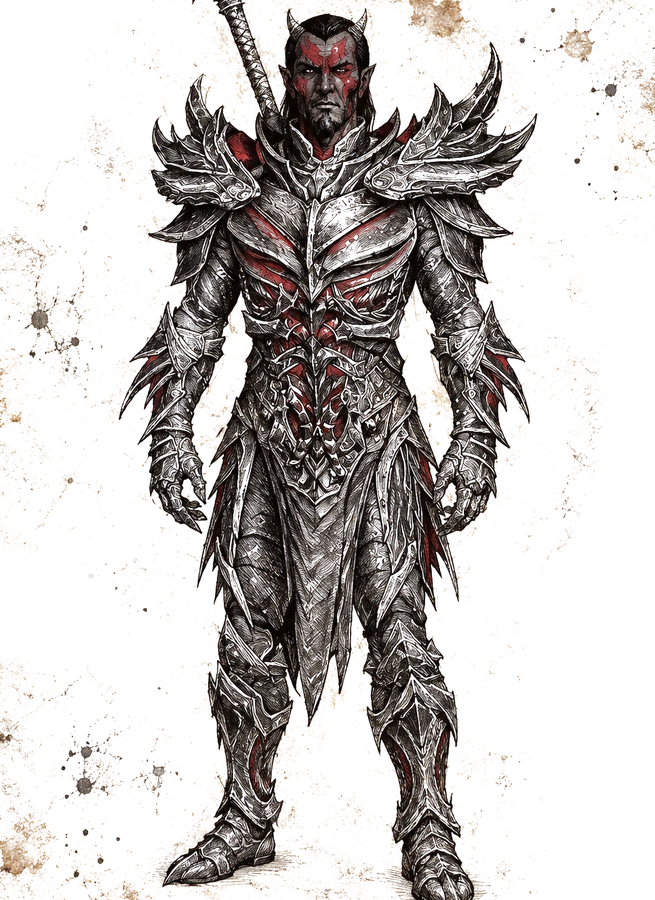
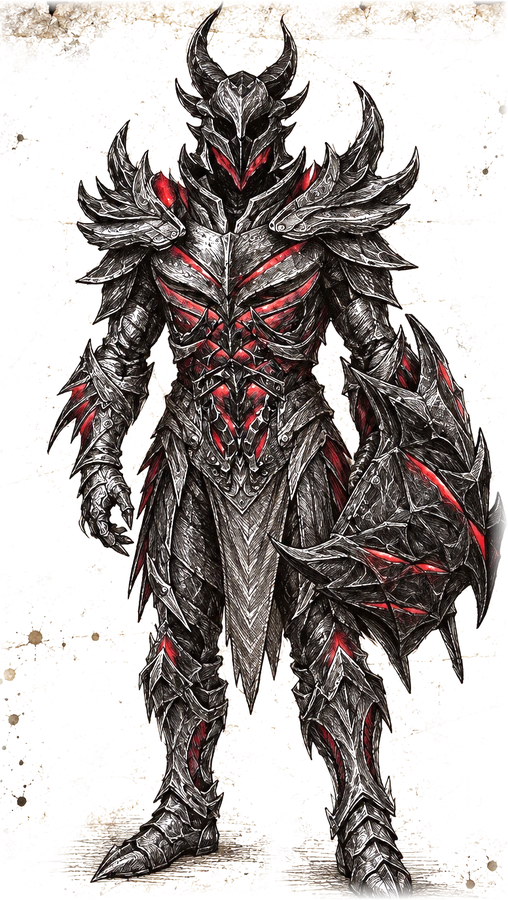
Novo nome, novo retrato do guerreiro e proteção com línguas de dragão
- O livro passa a se chamar "Bestiário de Eivor, Mago da Corte de Windhelm"
  (capa, folha de rosto, cabeçalhos, runas do medalhão e título da página).
- Retrato do Dremora Guerreiro trocado pela versão com elmo; retrato do
  mago recortado de novo, agora com os chifres inteiros.
- Proteção dos Dremoras inclui línguas de dragão contra o fogo.
- Couro da capa com manchas mais suaves.

diff --git a/livro.js b/livro.js
@@ -1,5 +1,5 @@
 /*
-  Bestiário de Windhelm: o livro que se folheia.
+  Bestiário de Eivor, Mago da Corte de Windhelm: o livro que se folheia.
 
   As páginas saem de criaturas.js. Este arquivo monta o livro, desenha o
   pergaminho e o couro, vira as folhas em 3D e cuida da navegação.
@@ -7,7 +7,7 @@
 (() => {
   'use strict';
 
-  const DADOS = window.BESTIARIO || { titulo: 'Bestiário de Windhelm', livro: '', criaturas: [] };
+  const DADOS = window.BESTIARIO || { titulo: 'Bestiário de Eivor', subtitulo: 'Mago da Corte de Windhelm', livro: '', criaturas: [] };
   DADOS.autor = DADOS.autor || 'Eivor';
   DADOS.cargo = DADOS.cargo || 'Mago da Corte';
 
@@ -117,13 +117,13 @@
       <div class="topo">
         <p class="t-grande">${esc(a)}</p>
         <p class="t-medio">${esc(b.join(' '))}</p>
+        ${DADOS.subtitulo ? `<p class="subtitulo">${esc(DADOS.subtitulo)}</p>` : ''}
         ${floreio()}
       </div>
       <svg class="pata-tinta" viewBox="0 0 100 92" aria-hidden="true">${pata()}</svg>
       <div class="topo">
         <p class="livro-n">${esc(DADOS.livro || '')}</p>
-        <p class="autor">Escrito por ${esc(DADOS.autor)}, ${esc(DADOS.cargo)},</p>
-        <p class="autoria">com a ajuda de todos os moradores de Windhelm</p>
+        <p class="autoria">Escrito com a ajuda de todos os moradores de Windhelm</p>
       </div>
     </div>`;
   }
@@ -315,7 +315,7 @@
       const cx = (26 + W) / 2, cy = 452, R = 112;
       const ra = R - 25;
       const anel = `M${cx - ra},${cy} a${ra},${ra} 0 1,1 ${2 * ra},0 a${ra},${ra} 0 1,1 ${-2 * ra},0`;
-      const runas = 'ᛒᛖᛊᛏᛁᚨᚱᛁᛟ ᛫ ᛞᛖ ᛫ ᚹᛁᚾᛞᚺᛖᛚᛗ ᛫ ᛒᛖᛊᛏᛁᚨᚱᛁᛟ ᛫ ᛞᛖ ᛫ ᚹᛁᚾᛞᚺᛖᛚᛗ ᛫';
+      const runas = 'ᛒᛖᛊᛏᛁᚨᚱᛁᛟ ᛫ ᛞᛖ ᛫ ᛖᛁᚹᛟᚱ ᛫ ᛗᚨᚷᛟ ᛫ ᛞᚨ ᛫ ᚲᛟᚱᛏᛖ ᛫';
       return `<svg class="arte" viewBox="0 0 ${W} ${H}" aria-hidden="true">
         ${moldura}
         <path id="anel-capa" d="${anel}" fill="none"/>
@@ -363,6 +363,7 @@
       <div class="conteudo" data-seed="77">
         <p class="t-grande">${esc(a)}</p>
         <p class="t-medio">${esc(b.join(' '))}</p>
+        ${DADOS.subtitulo ? `<p class="subtitulo">${esc(DADOS.subtitulo)}</p>` : ''}
         <p class="livro-n">${esc(DADOS.livro || '')}</p>
       </div>
     </div>`;
@@ -408,7 +409,7 @@
 
   // etiqueta da capa com bordas rasgadas
   (function recortarEtiqueta() {
-    const R = rng(4242), w = 348, h = 158, st = 5, pts = [];
+    const R = rng(4242), w = 348, h = 188, st = 5, pts = [];
     for (let x = 0; x <= w; x += st) pts.push([x, R() * 3.2]);
     for (let y = 0; y <= h; y += st) pts.push([w - R() * 3.2, y]);
     for (let x = w; x >= 0; x -= st) pts.push([x, h - R() * 3.2]);
@@ -601,11 +602,11 @@
     for (let y = 0; y < H; y++) {
       for (let x = 0; x < W; x++) {
         const i = y * W + x;
-        const v = n1[i] * 0.6 + n2[i] * 0.25 + n3[i] * 0.15;
-        let t = clamp((v - 0.3) / 0.45, 0, 1); t = t * t * (3 - 2 * t);
-        let r = 26 + 36 * t, gg = 13 + 21 * t, b = 9 + 13 * t;
+        const v = n1[i] * 0.55 + n2[i] * 0.25 + n3[i] * 0.2;
+        let t = clamp((v - 0.32) / 0.4, 0, 1); t = t * t * (3 - 2 * t);
+        let r = 30 + 30 * t, gg = 16 + 17 * t, b = 11 + 11 * t;
         // manchas escuras de gordura, leves
-        const m = clamp((0.38 - n2[i]) / 0.25, 0, 1) * 0.14;
+        const m = clamp((0.38 - n2[i]) / 0.25, 0, 1) * 0.08;
         r *= 1 - m; gg *= 1 - m; b *= 1 - m;
         const e = Math.min(x, W - x, y, H - y) / T;
         let q = clamp(1 - e / (9 + 26 * n1[i]), 0, 1); q = q * q * 0.9;

diff --git a/estilo.css b/estilo.css
@@ -1,4 +1,4 @@
-/* Bestiário de Windhelm: estilo do livro */
+/* Bestiário de Eivor, Mago da Corte de Windhelm: estilo do livro */
 
 :root {
   color-scheme: dark;
@@ -221,8 +221,8 @@ dd { display: inline; margin: 0; }
 .rosto .topo { display: flex; flex-direction: column; align-items: center; }
 .pata-tinta { width: 6.4em; height: auto; fill: rgb(var(--tinta) / .8); }
 .rosto .livro-n { font-size: 1.25em; }
-.rosto .autor { font-size: 1em; margin-top: .5em !important; }
 .rosto .autoria { font-size: .9em; max-width: 17em; opacity: .9; }
+.rosto .subtitulo { font-size: 1.05em; margin-top: .3em !important; }
 
 /* ao leitor */
 .legenda { margin: .5em 0 .7em; }
@@ -300,9 +300,9 @@ dd { display: inline; margin: 0; }
 .etiqueta {
   position: absolute;
   left: 116px;
-  top: 112px;
+  top: 100px;
   width: 348px;
-  height: 158px;
+  height: 188px;
   transform: rotate(-1.3deg);
   filter: drop-shadow(0 2px 1.5px rgba(0, 0, 0, .75)) drop-shadow(0 0 7px rgba(0, 0, 0, .35));
 }
@@ -314,7 +314,8 @@ dd { display: inline; margin: 0; }
 .etiqueta .conteudo { inset: 12px 18px 10px; text-align: center; overflow: visible; display: flex; flex-direction: column; align-items: center; justify-content: center; }
 .etiqueta .t-grande { font-size: 2.75em; line-height: 1.2; }
 .etiqueta .t-medio { font-size: 1.75em; line-height: 1.15; }
-.etiqueta .livro-n { font-size: .8em; margin-top: .45em !important; opacity: .85; }
+.etiqueta .subtitulo { font-size: .92em; margin-top: .35em !important; }
+.etiqueta .livro-n { font-size: .78em; margin-top: .3em !important; opacity: .85; }
 
 /* contracapas por dentro: couro dobrado e papel colado */
 .colado { position: absolute; top: 10px; bottom: 10px; overflow: hidden; box-shadow: 0 0 5px rgba(0, 0, 0, .45); }

diff --git a/criaturas.js b/criaturas.js
@@ -1,5 +1,5 @@
 /*
-  Bestiário de Windhelm: registro das criaturas.
+  Bestiário de Eivor, Mago da Corte de Windhelm: registro das criaturas.
 
   Para anotar uma fera nova, copie um dos blocos abaixo, cole no fim da lista
   (separado por vírgula) e troque os campos. O sumário e a numeração das
@@ -19,7 +19,9 @@
   com o fundo transparente.
 */
 window.BESTIARIO = {
-  titulo: 'Bestiário de Windhelm',
+  // título curto (capa, folha de rosto e cabeçalho das feras) e complemento
+  titulo: 'Bestiário de Eivor',
+  subtitulo: 'Mago da Corte de Windhelm',
   livro: 'Livro Primeiro',
   // quem escreve o livro (aparece na folha de rosto e na assinatura do prefácio)
   autor: 'Eivor',
@@ -52,7 +54,7 @@ window.BESTIARIO = {
       bando: 'De 3 a 15, ou muitos mais',
       fraquezas: 'Armas de prata são mais eficazes. Sob a luz do sol ficam mais fracos, e há suspeitas de que tochas também ajudem',
       tatica: 'Contra os magos, arcos à distância devem ajudar',
-      protecao: 'Poções de resistência à magia, ou amoras da neve para resistir ao fogo',
+      protecao: 'Poções de resistência à magia. Para resistir ao fogo, amoras da neve ou línguas de dragão',
       regiao: 'Indefinida, pois vêm de fendas. A última aparição foi em Dawnstar',
       retratos: [
         { imagem: 'assets/dremora-guerreiro.webp', legenda: 'Dremora Guerreiro', nota: 'Armas de prata são mais eficazes contra eles.' },

diff --git a/index.html b/index.html
@@ -3,7 +3,7 @@
 <head>
 <meta charset="utf-8">
 <meta name="viewport" content="width=device-width, initial-scale=1, viewport-fit=cover">
-<title>Bestiário de Windhelm</title>
+<title>Bestiário de Eivor, Mago da Corte de Windhelm</title>
 <meta name="description" content="As feras de Skyrim anotadas por Eivor, Mago da Corte, com a ajuda dos moradores de Windhelm, num livro antigo para folhear.">
 <meta name="theme-color" content="#15120f">
 <link rel="preconnect" href="https://fonts.googleapis.com">
@@ -50,7 +50,7 @@
   </defs>
 </svg>
 
-<main id="cena" aria-label="Bestiário de Windhelm">
+<main id="cena" aria-label="Bestiário de Eivor, Mago da Corte de Windhelm">
   <div class="fundo coluna c1"></div>
   <div class="fundo coluna c2"></div>
   <div class="fundo chama"></div>

diff --git a/README.md b/README.md
@@ -1,4 +1,4 @@
-# Bestiário de Windhelm
+# Bestiário de Eivor, Mago da Corte de Windhelm
 
 Um livro antigo de couro para folhear no navegador. Nele estão as feras de Skyrim anotadas por Eivor, Mago da Corte, com a ajuda de todos os moradores de Windhelm.
 
